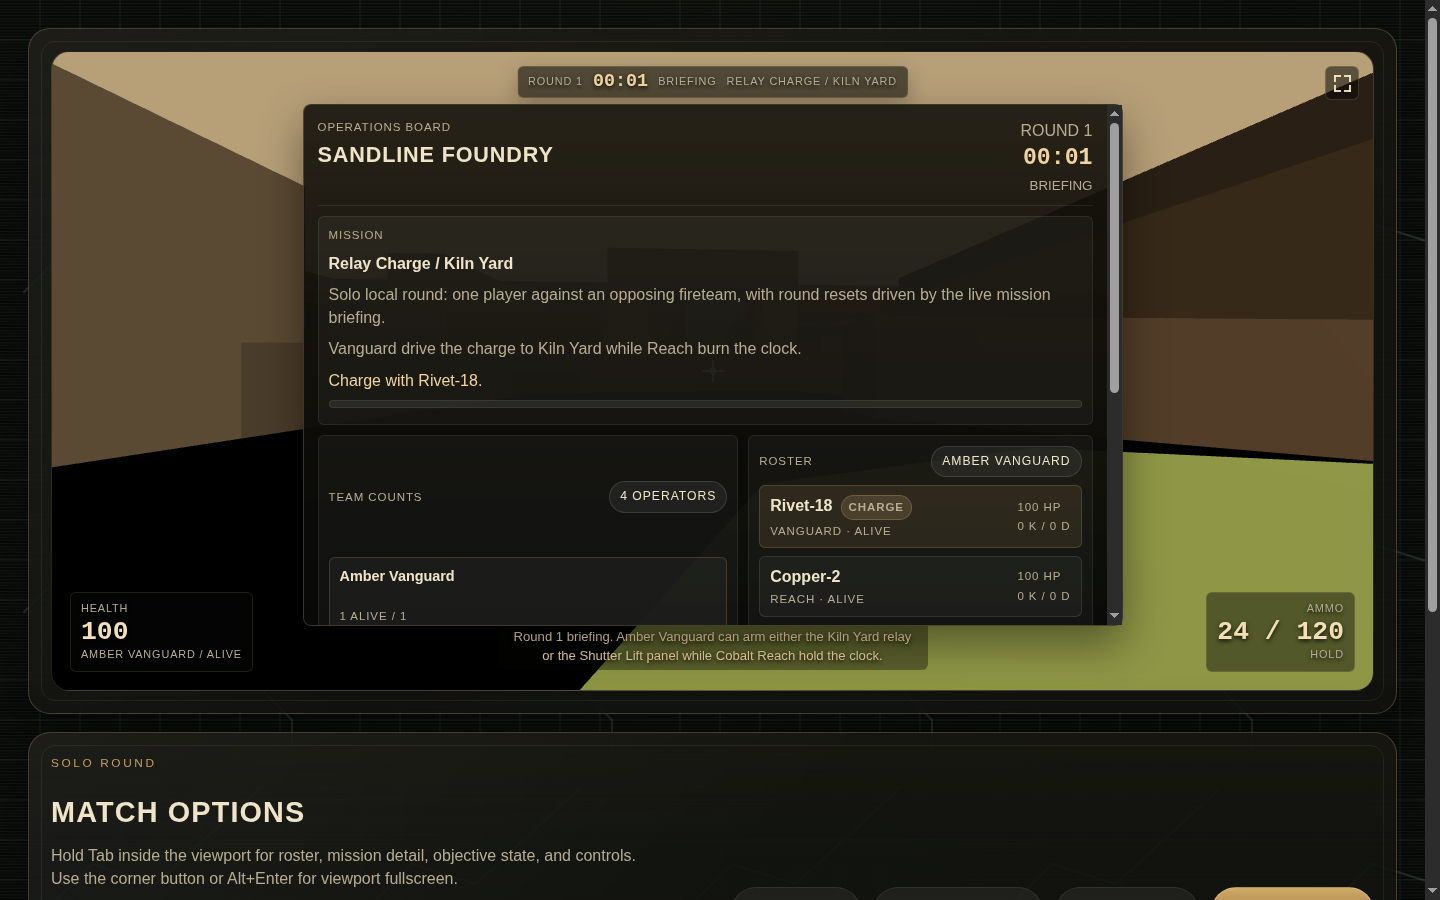
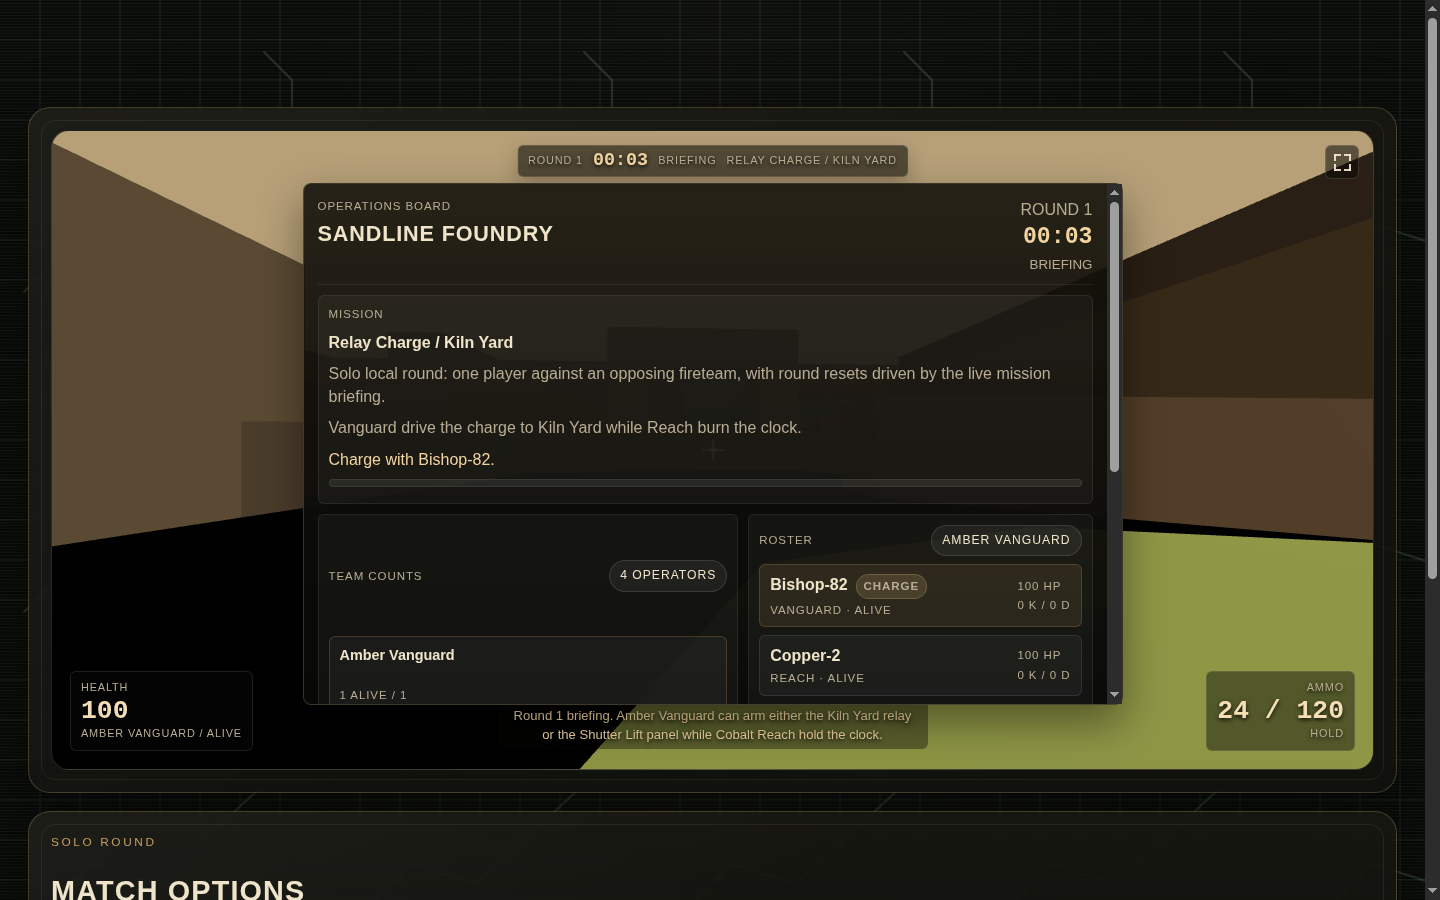
Center match viewport without page scroll

diff --git a/src/styles.css b/src/styles.css
@@ -912,6 +912,9 @@ p {
 }
 
 .screen--match {
+  --match-viewport-min-height: 640px;
+  --match-viewport-top-chrome: 51px;
+
   gap: 18px;
 }
 
@@ -921,6 +924,10 @@ p {
 }
 
 .world-stage--match {
+  margin-block-start: max(
+    0px,
+    calc((100vh - var(--match-viewport-min-height)) / 2 - var(--match-viewport-top-chrome))
+  );
   padding: 22px;
   min-height: 0;
 }
@@ -1480,6 +1487,11 @@ p {
     padding: 18px;
   }
 
+  .screen--match {
+    --match-viewport-min-height: 360px;
+    --match-viewport-top-chrome: 41px;
+  }
+
   .screen--stage,
   .hero-grid {
     grid-template-columns: 1fr;
@@ -1512,6 +1524,11 @@ p {
 }
 
 @media (max-width: 720px) {
+  .screen--match {
+    --match-viewport-min-height: 560px;
+    --match-viewport-top-chrome: 37px;
+  }
+
   .hero-panel,
   .hero-grid__preview,
   .stage-toolbar,

diff --git a/src/ui/app.ts b/src/ui/app.ts
@@ -332,7 +332,23 @@ export class TacticalShellApp {
     }
 
     host.innerHTML = '<div class="world-stage__loading">Loading live arena...</div>';
+    this.resetMatchScroll();
     void this.mountMatch(host, map, token);
+  }
+
+  private resetMatchScroll(): void {
+    if (typeof window === "undefined") {
+      return;
+    }
+
+    const token = this.renderToken;
+    window.requestAnimationFrame(() => {
+      if (token !== this.renderToken || this.screen !== "stage") {
+        return;
+      }
+
+      window.scrollTo(0, 0);
+    });
   }
 
   private teardownMatch(): void {
